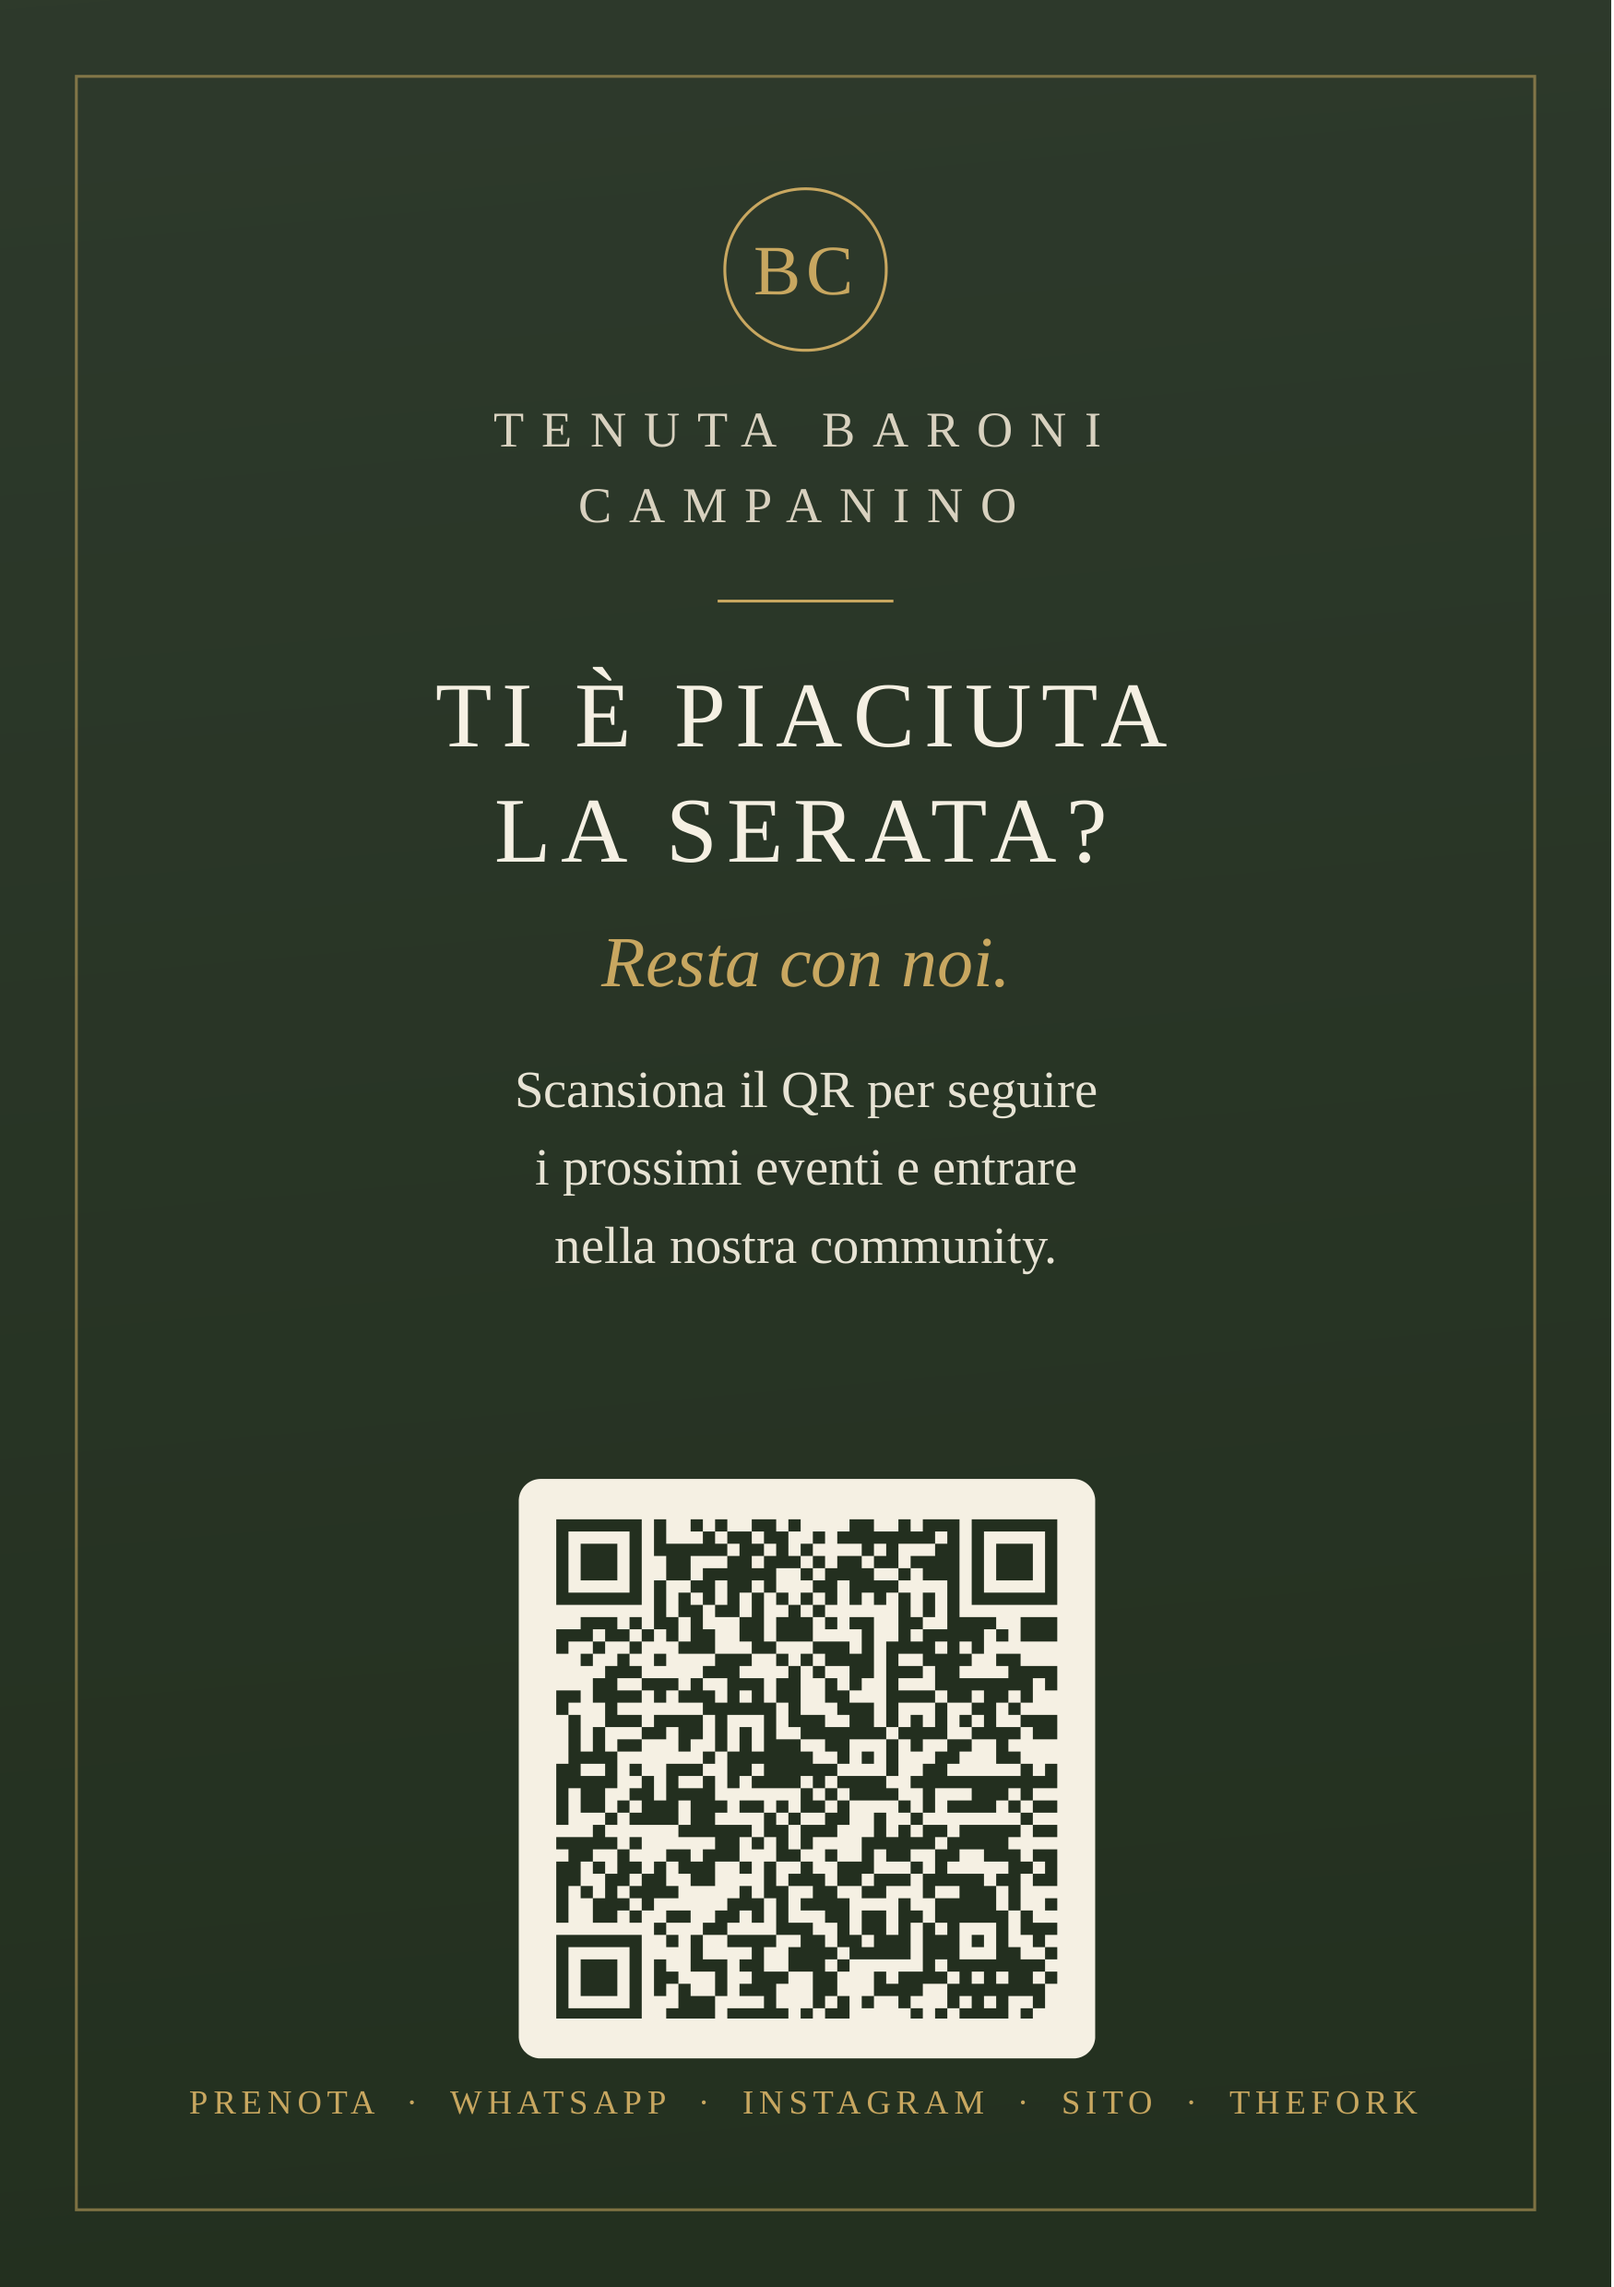
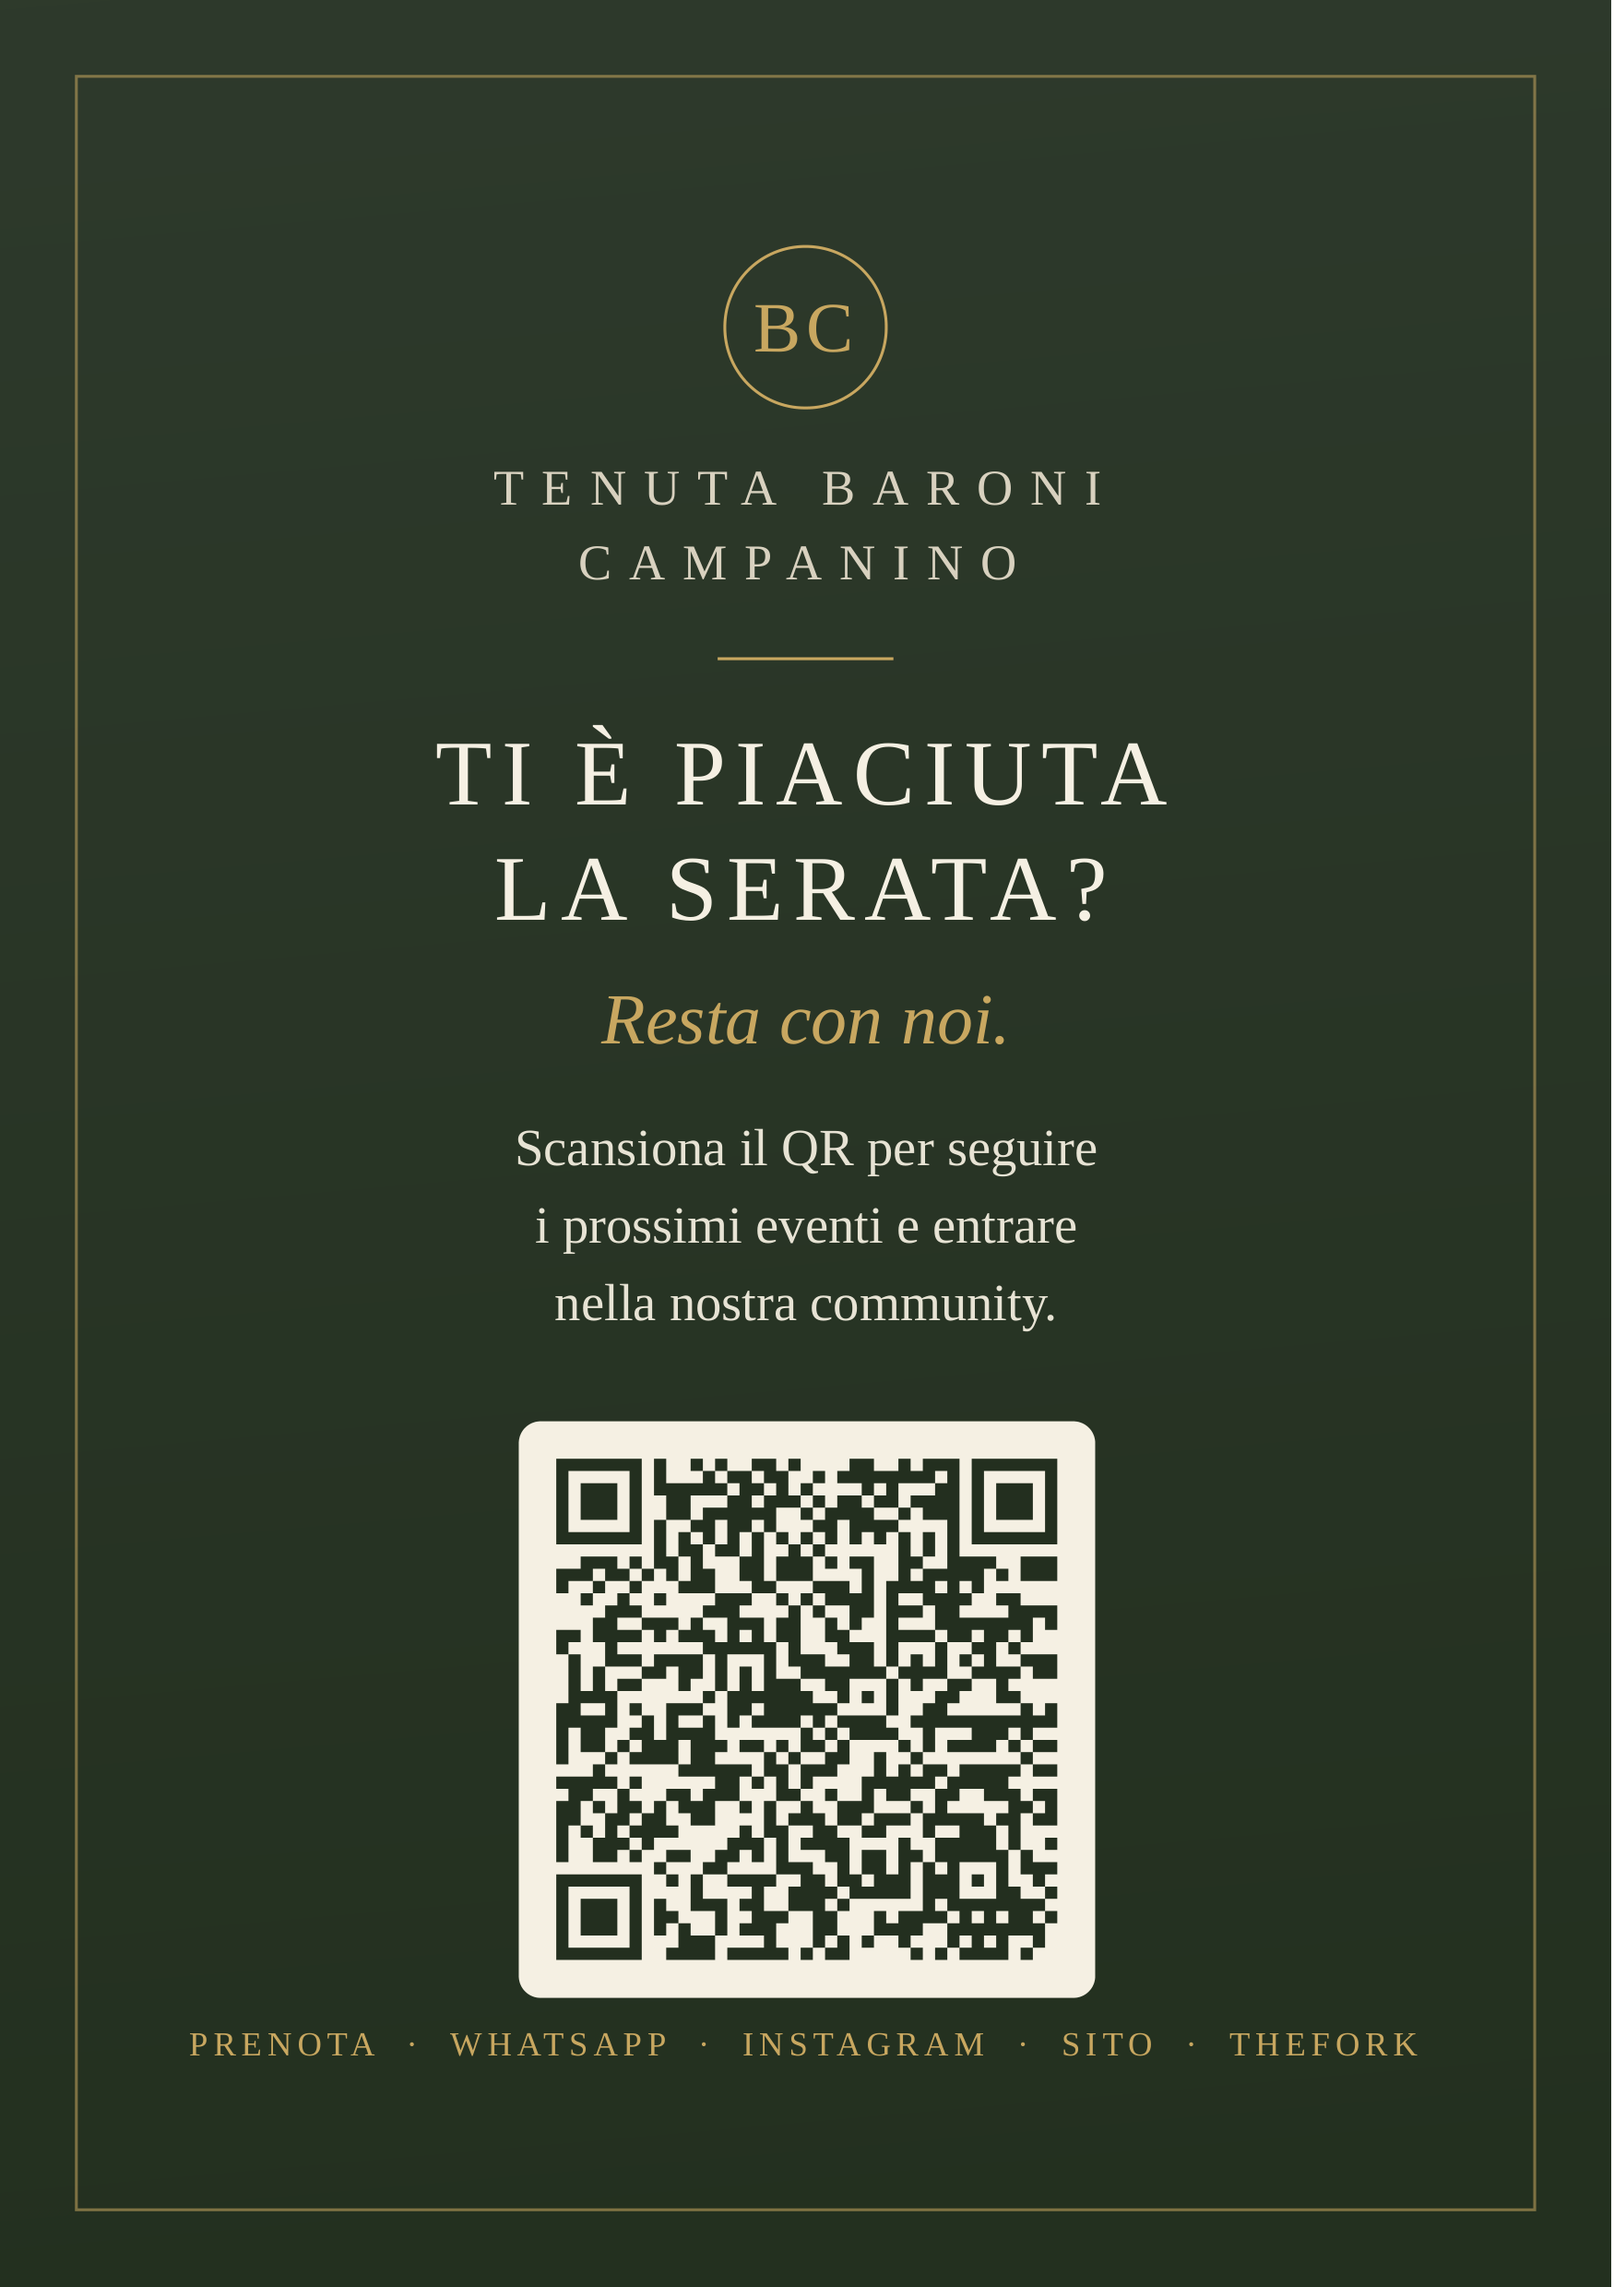
Centrata verticalmente la composizione di locandina e grafica social
Claude-Session: https://claude.ai/code/session_01AJtZJ7iracu3mmHtUNaPXQ

diff --git a/qr/locandina-A5.src.html b/qr/locandina-A5.src.html
@@ -14,6 +14,7 @@
     width:134mm; height:196mm;
     border:0.3mm solid rgba(201,168,96,.55);
     display:flex; flex-direction:column; align-items:center; text-align:center;
+    justify-content:center;
     padding:10mm 10mm 8mm;
   }
   .monogram {
@@ -28,7 +29,7 @@
        text-transform:uppercase; line-height:1.25; }
   .stay { margin-top:3mm; font-size:6.6mm; font-style:italic; color:#c9a860; }
   .body { margin-top:4.5mm; font-size:4.8mm; line-height:1.5; color:#e8e3d4; max-width:100mm; }
-  .panel { margin-top:auto; flex:0 0 auto; background:#f5f0e4; border-radius:2mm; padding:3.5mm; }
+  .panel { margin-top:7mm; flex:0 0 auto; background:#f5f0e4; border-radius:2mm; padding:3.5mm; }
   .panel svg { display:block; width:46mm; height:46mm; }
   .url { margin-top:4.5mm; font-size:4.4mm; letter-spacing:0.6mm; color:#f5f0e4; }
   .tags { margin-top:2.5mm; font-size:3.1mm; letter-spacing:0.5mm;

diff --git a/qr/social-1080.src.html b/qr/social-1080.src.html
@@ -12,6 +12,7 @@
     width:1000px; height:940px;
     border:1px solid rgba(201,168,96,.55);
     display:flex; flex-direction:column; align-items:center;
+    justify-content:center;
     padding:56px 60px 48px;
   }
   .monogram {
